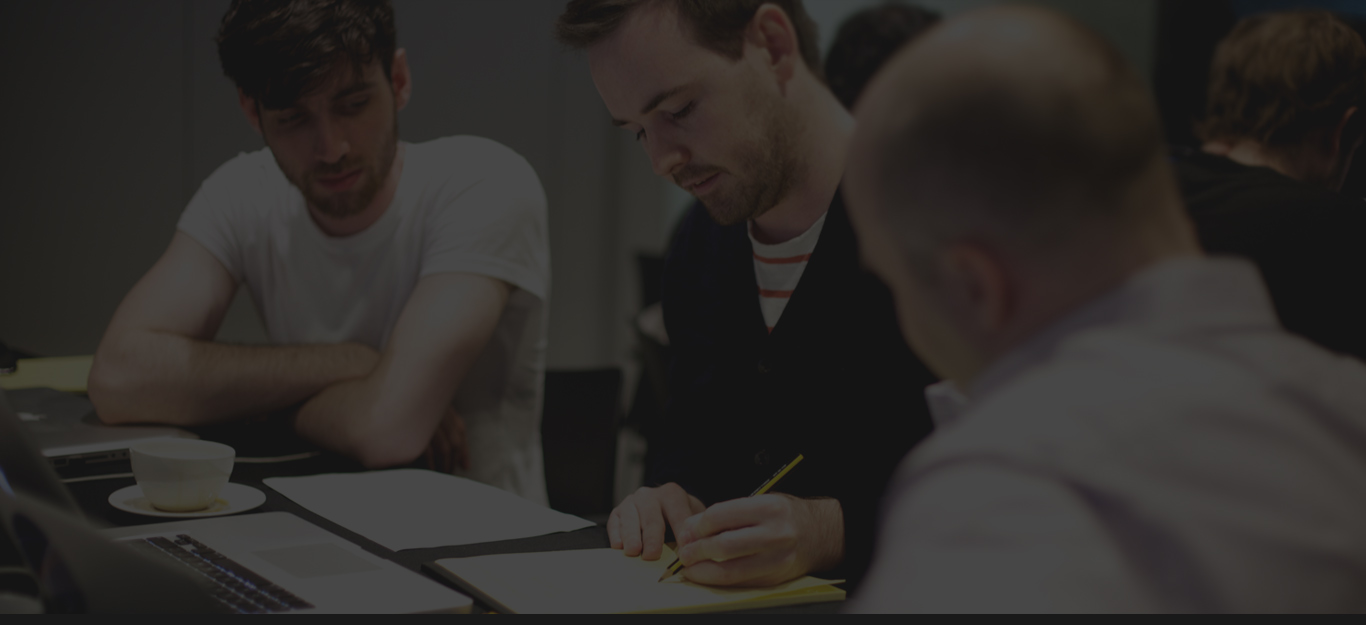
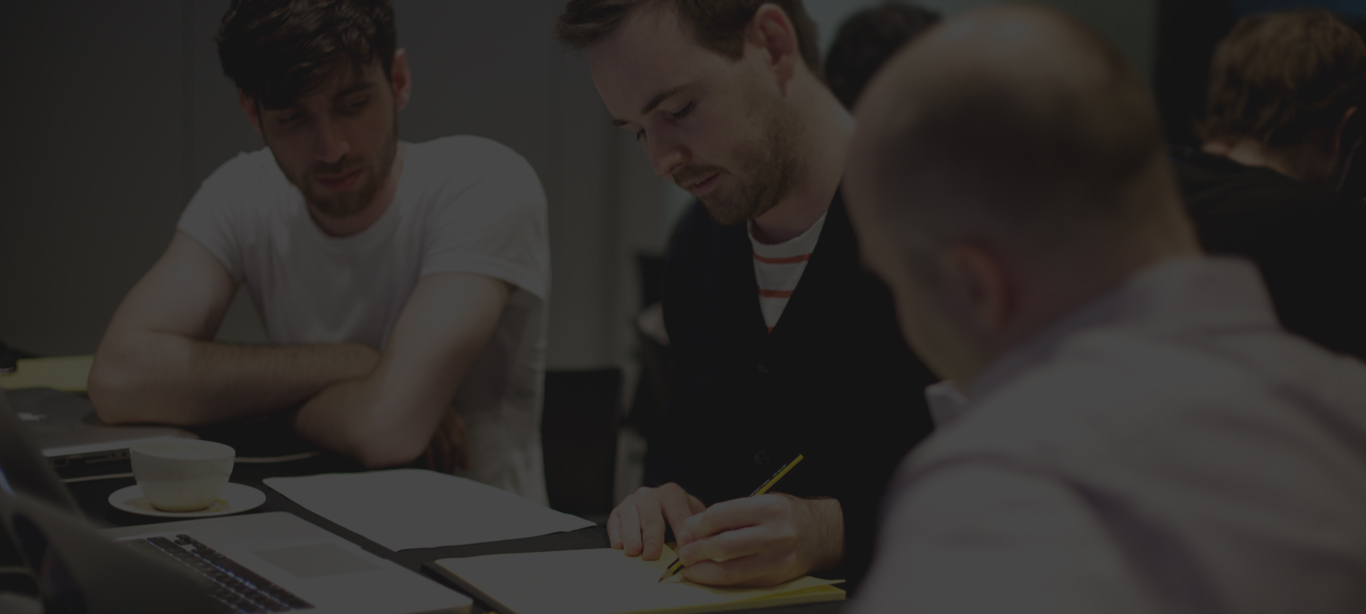
responsive in progress. header done, menu 50/50 done

diff --git a/html/css/style.less b/html/css/style.less
@@ -80,7 +80,8 @@ body {
     color: @black;
 }
 .wrapper {
-
+    overflow: hidden;
+    min-width: 320px;
 }
 .container {
     max-width: 1170px;
@@ -94,6 +95,9 @@ header {
     text-align: center;
     color: @white;
     background-image: url(../img/header_bg.jpg);
+    background-repeat: no-repeat;
+    background-position: center center;
+    background-size: cover;
     .container {
         position: relative;
         padding: 14.26% 0;
@@ -1180,4 +1184,131 @@ footer {
             }
         }
     }
+}
+
+
+
+/****  media  ****/
+@media (max-width: 1280px) {
+    .container {
+        padding: 0 15px;
+    }
+    .header-link {
+        right: 15px;
+    }
+}
+
+
+@media (max-width: 1024px) {
+    h1 {
+        .font-size(72, 16);
+    }
+    header {
+        p {
+            .font-size(18, 16);
+        }
+    }
+    nav {
+        ul {
+            li {
+                margin-left: 30px;
+            }
+        }
+    }
+}
+@media (max-width: 960px) {
+    nav {
+        ul {
+            li {
+                margin-left: 18px;
+                &:first-child {
+                    margin-left: 0;
+                }
+                a {
+                    .font-size(15, 16);
+                }
+            }
+        }
+    }
+}
+@media (max-width: 768px) {
+    header {
+        p {
+            .font-size(16, 16);
+        }
+    }
+    h1 {
+        .font-size(56, 16);
+    }
+    h2 {
+        .font-size(15, 16);
+    }
+    .navbar {
+        padding: 15px 0 0;
+    }
+    nav {
+        display: block;
+        float: none;
+        text-align: right;
+        ul {
+            li {
+                margin-left: 30px;
+                &:first-child {
+                    display: block;
+                    margin: 0 0 10px;
+                }
+                &:nth-child(2) {
+                    margin-left: 0;
+                }
+                a {
+                    display: inline-block;
+                    padding: 10px 0 12px;
+                }
+            }
+        }
+    }
+    .logo {
+        float: left;
+    }
+}
+@media (max-width: 640px) {
+    header {
+        p {
+            .font-size(14, 16);
+        }
+    }
+    h1 {
+        .font-size(44, 16);
+    }
+    h2 {
+        .font-size(14, 16);
+    }
+    .header-link {
+        bottom: 8px;
+        .font-size(14, 16);
+    }
+}
+@media (max-width: 540px) {
+    nav {
+        ul {
+            li {
+                margin-left: 15px;
+                a {
+                    .font-size(14, 16);
+                }
+            }
+        }
+    }
+}
+@media (max-width: 480px) {
+    .container {
+        padding: 0 8px;
+    }
+    h1 {
+        line-height: 1;
+        margin: 0.2em 0 0.2em;
+    }
+}
+@media (max-width: 440px) {
+    
 }

diff --git a/html/css/style.css b/html/css/style.css
@@ -37,6 +37,10 @@ body {
   font-weight: 400;
   color: #343434;
 }
+.wrapper {
+  overflow: hidden;
+  min-width: 320px;
+}
 .container {
   max-width: 1170px;
   margin: auto;
@@ -48,6 +52,9 @@ header {
   text-align: center;
   color: #ffffff;
   background-image: url(../img/header_bg.jpg);
+  background-repeat: no-repeat;
+  background-position: center center;
+  background-size: cover;
 }
 header .container {
   position: relative;
@@ -1120,4 +1127,106 @@ footer {
 }
 .scrollTop:active i.active {
   opacity: 1;
+}
+/****  media  ****/
+@media (max-width: 1280px) {
+  .container {
+    padding: 0 15px;
+  }
+  .header-link {
+    right: 15px;
+  }
+}
+@media (max-width: 1024px) {
+  h1 {
+    font-size: 4.5em;
+  }
+  header p {
+    font-size: 1.125em;
+  }
+  nav ul li {
+    margin-left: 30px;
+  }
+}
+@media (max-width: 960px) {
+  nav ul li {
+    margin-left: 18px;
+  }
+  nav ul li:first-child {
+    margin-left: 0;
+  }
+  nav ul li a {
+    font-size: 0.9375em;
+  }
+}
+@media (max-width: 768px) {
+  header p {
+    font-size: 1em;
+  }
+  h1 {
+    font-size: 3.5em;
+  }
+  h2 {
+    font-size: 0.9375em;
+  }
+  .navbar {
+    padding: 15px 0 0;
+  }
+  nav {
+    display: block;
+    float: none;
+    text-align: right;
+  }
+  nav ul li {
+    margin-left: 30px;
+  }
+  nav ul li:first-child {
+    display: block;
+    margin: 0 0 10px;
+  }
+  nav ul li:nth-child(2) {
+    margin-left: 0;
+  }
+  nav ul li a {
+    display: inline-block;
+    padding: 10px 0 12px;
+  }
+  .logo {
+    float: left;
+  }
+}
+@media (max-width: 640px) {
+  header p {
+    font-size: 0.875em;
+  }
+  h1 {
+    font-size: 2.75em;
+  }
+  h2 {
+    font-size: 0.875em;
+  }
+  .header-link {
+    bottom: 8px;
+    font-size: 0.875em;
+  }
+}
+@media (max-width: 540px) {
+  nav ul li {
+    margin-left: 15px;
+  }
+  nav ul li a {
+    font-size: 0.875em;
+  }
+}
+@media (max-width: 480px) {
+  .container {
+    padding: 0 8px;
+  }
+  h1 {
+    line-height: 1;
+    margin: 0.2em 0 0.2em;
+  }
+}
+@media (max-width: 440px) {
+  
 }
